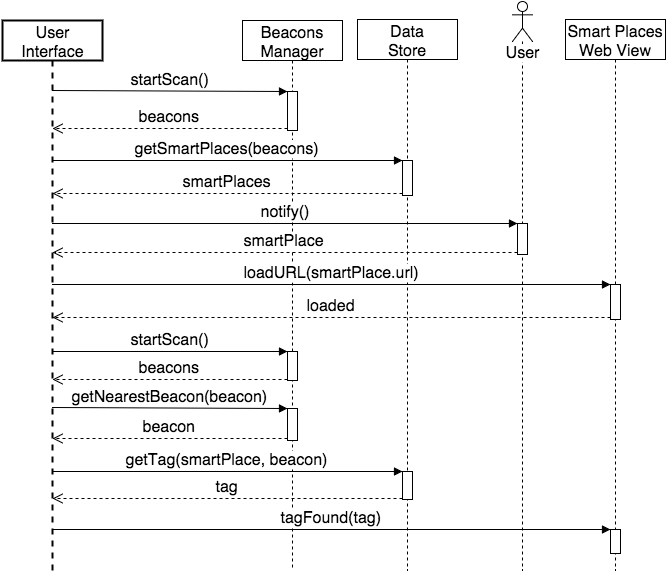
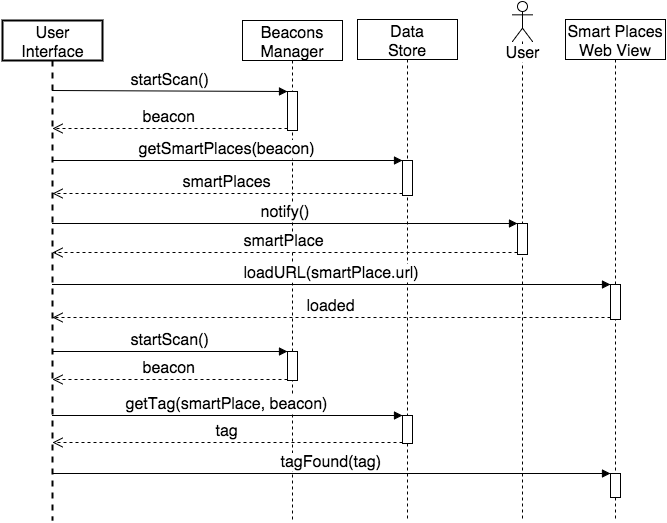
Created the content of Architecture section. Closes #160

diff --git a/dissertation/chapters/implementation.tex b/dissertation/chapters/implementation.tex
@@ -67,25 +67,67 @@ The \gls{URL} is in the format: ``javascript:functionToInvoke(arguments)'', wher
 
 \section{Architecture}
 \label{sec:implementation_architecture}
-% TODO: Write this...
 % Introduce architecture
 % Owners/Users app similar
 % Figure 1 shows...
 % Explain each component
+In the previous section, we described important decisions for the development of our Smart Places solution. Those decisions were taken into account while designing its architecture.
+As already mentioned, we have two mobile apps, each one for a different kind of user.
+One allows end users to have access to services provided by Smart Places and the other offers an interface for owners to manage their Smart Places.
+Both apps need to be able to detect tags and send and receive data to and from the backend.
+Between these two apps the difference is on the \gls{UI} that each one offers.
+Smart Places solution is composed by the following components, as shown in Figure~\ref{fig:smart_places_architecture}:
+\begin{description}
+  \item[Beacons]
+  are the hardware used to act as tags in Smart Places;
+  \item[Backend]
+  is where all the data is stored, including data about each Smart Place and each tag;
+  \item[Beacons Manager]
+  is an abstraction of the \gls{BLE} layer.
+  It offers a method to scan for nearby beacons. Once this component was created, we did not need to handle the \gls{BLE} communication each time a scan was necessary;
+  \item[Data Store]
+  is the Backend client for the mobile apps.
+  It has all the needed methods to get the information about Smart Places and tags from the beacons that were detected by the Beacons Manager;
+  \item[User Interface]
+  is the mean for the user to interact with the mobile app and calls the other components in order to provide the necessary features;
+  \item[Smart Places Web View]
+  is an instance of a Web View, available in the Android \gls{SDK}.
+  This is an extension of the default Web View because it has methods to call Javascript functions of the web application that is running here;
+  \item[Smart Places \gls{API}]
+  is the Javascript library that allows the web applications to react to the presence of tags.
+  It is described in further detail in section \ref{sec:implementation_developers_api}.
+  \item[Smart Place Instance]
+  is the instance of the proximity-based service developed according to the concept of Smart Place, that is running inside the Web View and uses the Smart Places \gls{API} to be able to execute code when a tag is detected.
+\end{description}
+
 \begin{figure}[!ht]
   \centering
     \includegraphics[width=0.8\textwidth, keepaspectratio]{images/smart_places_architecture}
     \caption[Smart Places Solution Architecture]{Architecture of Smart Places Solution showing its main components}
-    \label{fig:estimote}
+    \label{fig:smart_places_architecture}
 \end{figure}
 
 % Explain the complete flow
 % Data Store communicates with the backend
+The different components interact with each other in order to provide the features for end users or owners depending on the app.
+Figure~\ref{fig:smart_places_sequence} shows how the components of our architecture communicate with each other in order to provide a proximity-based service for end users.
+First, the Beacons Manager is called in order to scan for nearby beacons and it returns the nearest one.
+The beacon itself only broadcasts an identifier.
+It does not have enough data to know which Smart Places it belongs to.
+Next, the Data Store component is called in order to get the information about the Smart Places that use that beacon as a tag.
+Data Store makes a request to the Backend in order to get this information.
+When the Backend returns a list of Smart Places, that list is used to notify the user about the Smart Places that were found.
+Then, if the user touches on of the notifications, a \gls{UI} with a Web View is shown.
+Since each Smart Place is a web application, the \gls{URL} of the Smart Place that the user previously selected, when he touched the notification, is loaded to the Web View.
+After the page finishes loading, the Beacons Manager is called again to perform another scan for nearby beacons and it returns the nearest one.
+The Data Store is called again but, this time, to get the tag associated to that beacon that belongs to the selected Smart Place.
+The data of this tag is sent to the Web View which calls the Smart Places \gls{API}, allowing the web application to react to the presence of this tag.
+
 \begin{figure}[!ht]
   \centering
     \includegraphics[width=0.8\textwidth, keepaspectratio]{images/client_app_sequence}
     \caption[Smart Places Sequence Diagram]{Sequence diagram showing the interaction between the Smart Places components}
-    \label{fig:estimote}
+    \label{fig:smart_places_sequence}
 \end{figure}
 
 \section{Tools}
@@ -120,7 +162,7 @@ For the Android apps, we have used the following tools:
 The Javascript \gls{API} and the Smart Restaurant and Smart Museum examples were created using web technologies, such as \gls{HTML}, \gls{CSS} and Javascript.
 However, besides these languages, we have used tools to manage the build process and also the necessary dependencies:
 \begin{description}
-  \item[Bower]\footnote{http://bower.io} is a tool used in web applications, to manage frontend dependencies. It was used here to manage dependencies of our Smart Restaurant and Smart Museum examples.
+  \item[Bower]\footnote{http://bower.io} is a tool used in web applications, to manage dependencies. It was used here to manage dependencies of our Smart Restaurant and Smart Museum examples.
   Also, it was used in our Javascript \gls{API} to allow this \gls{API} to be released as a library in order to make it avaible, to install, using this tool;
   \item[Grunt]\footnote{http://gruntjs.com} is another tool used in web applications, to manage the build process of frontend assets.
   It is based on tasks that are added depending on the needs of the project.
